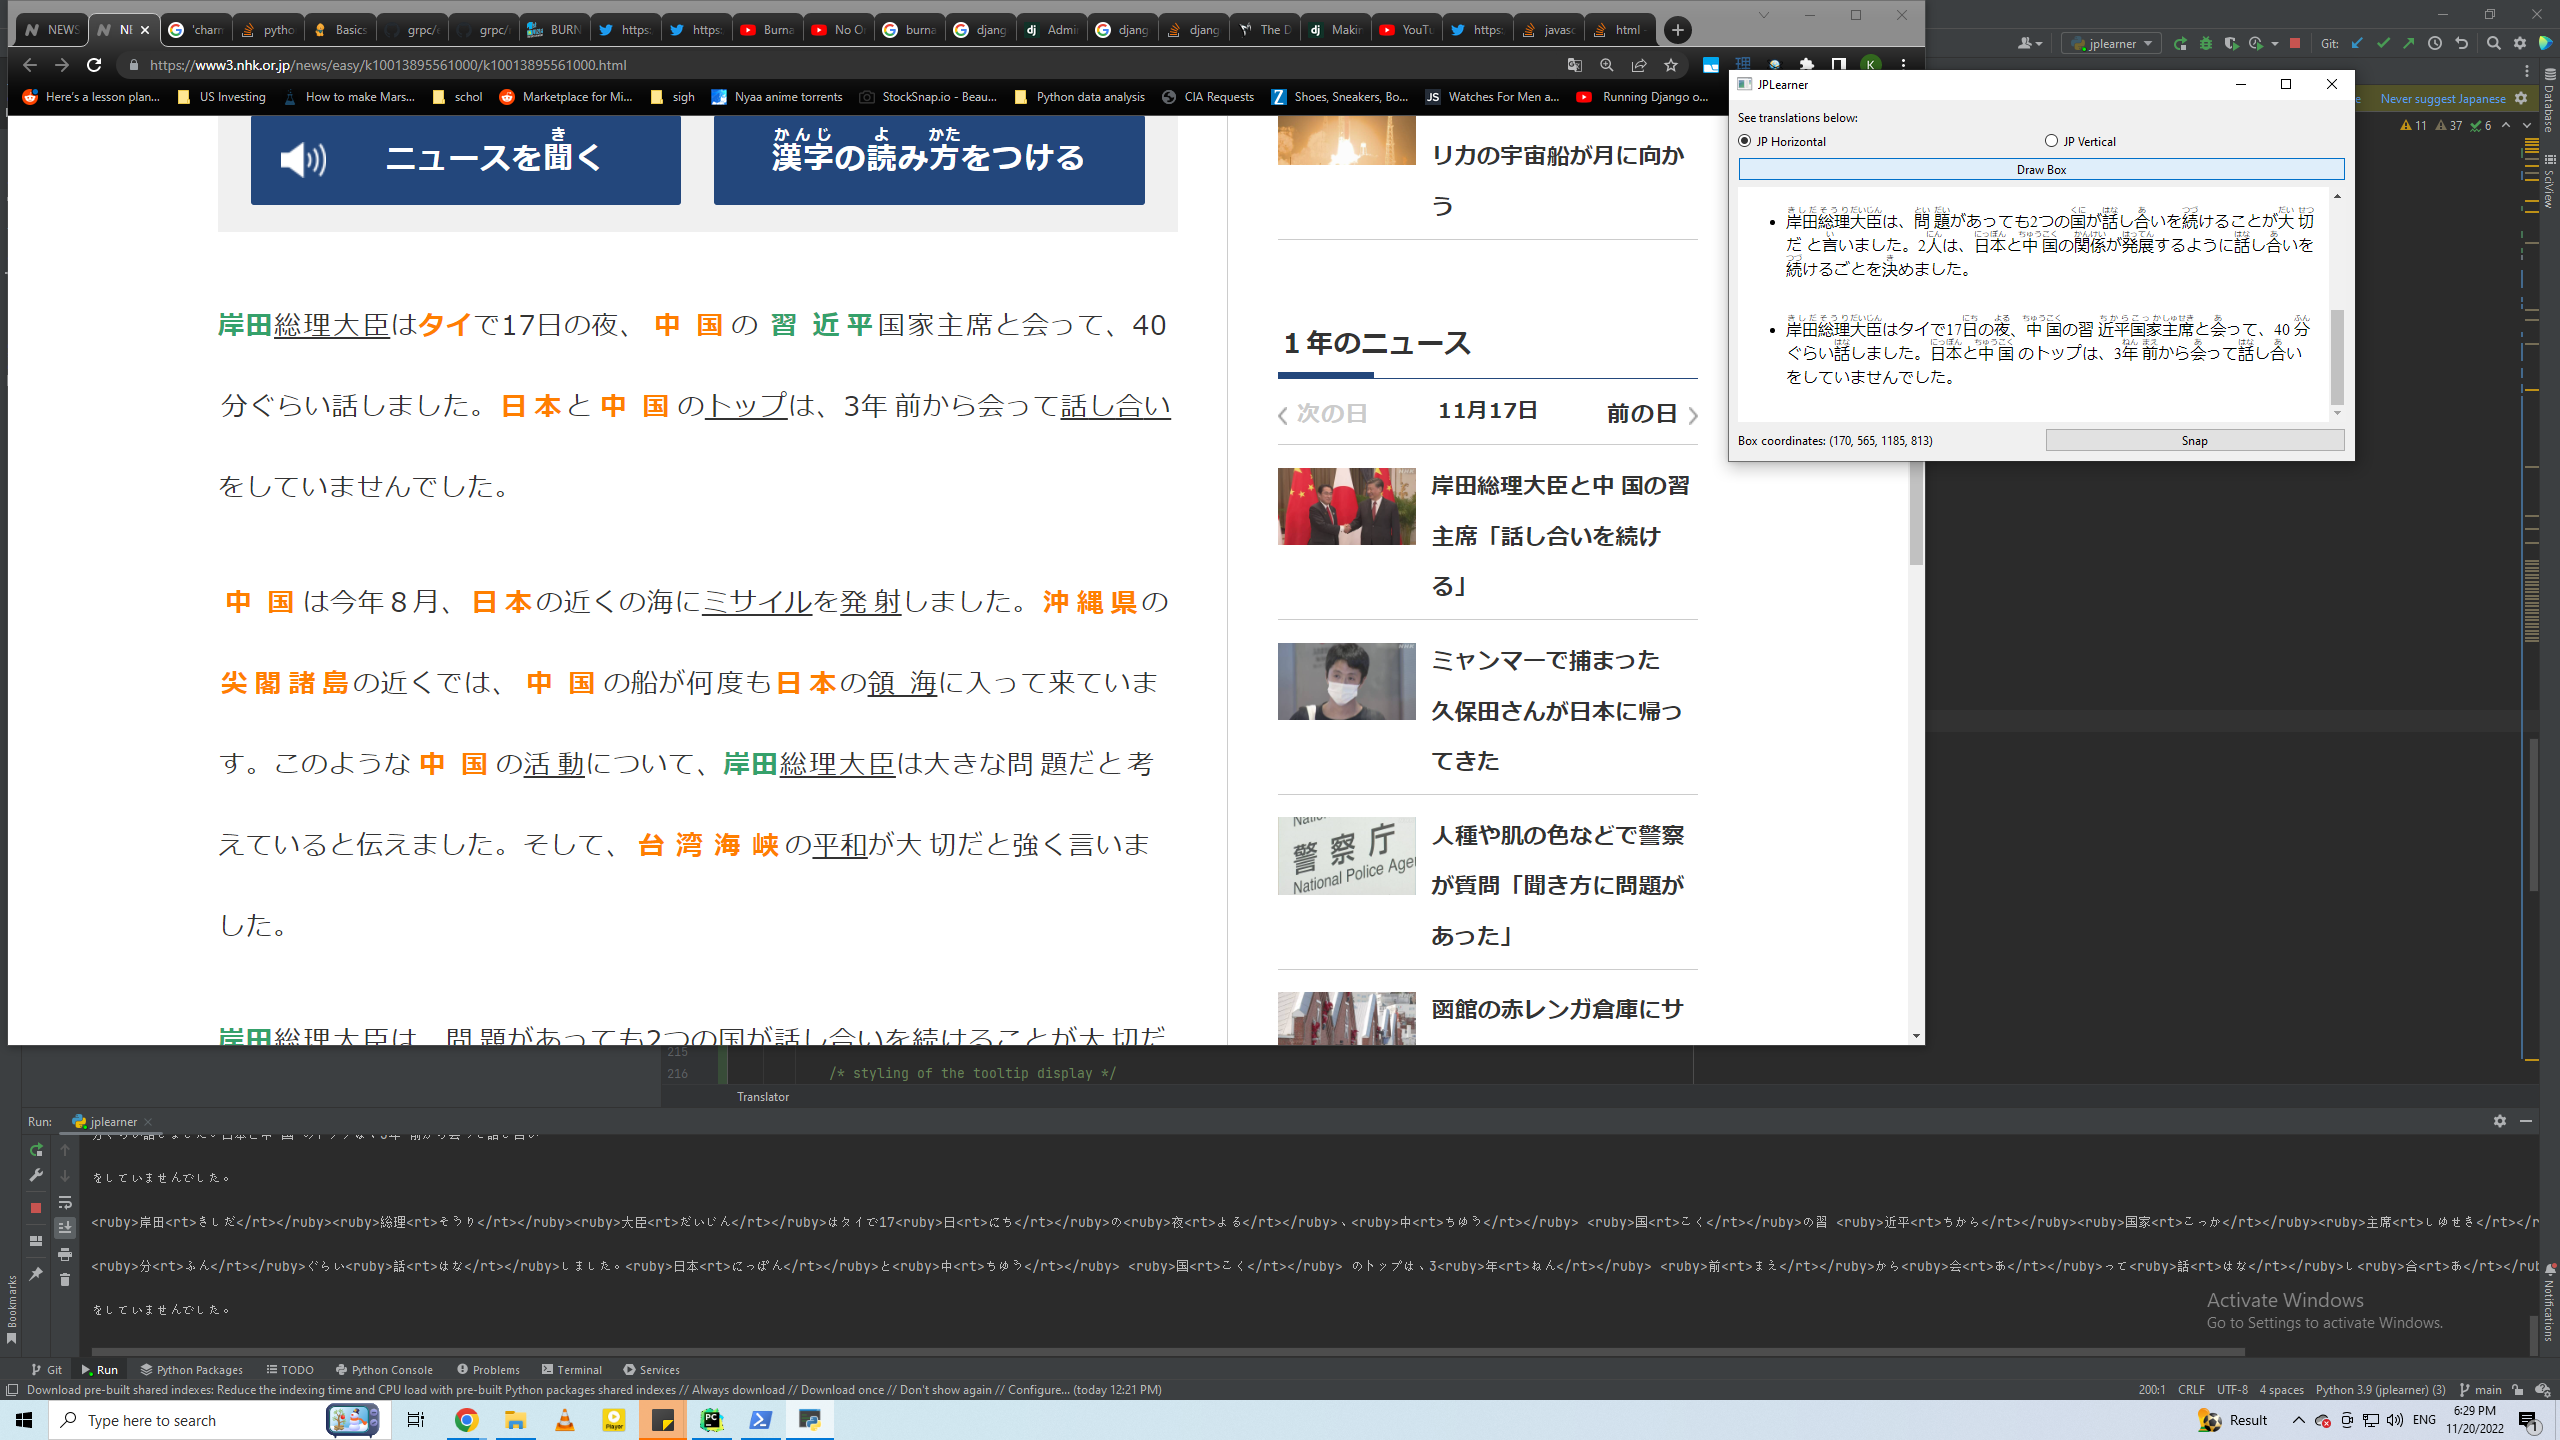
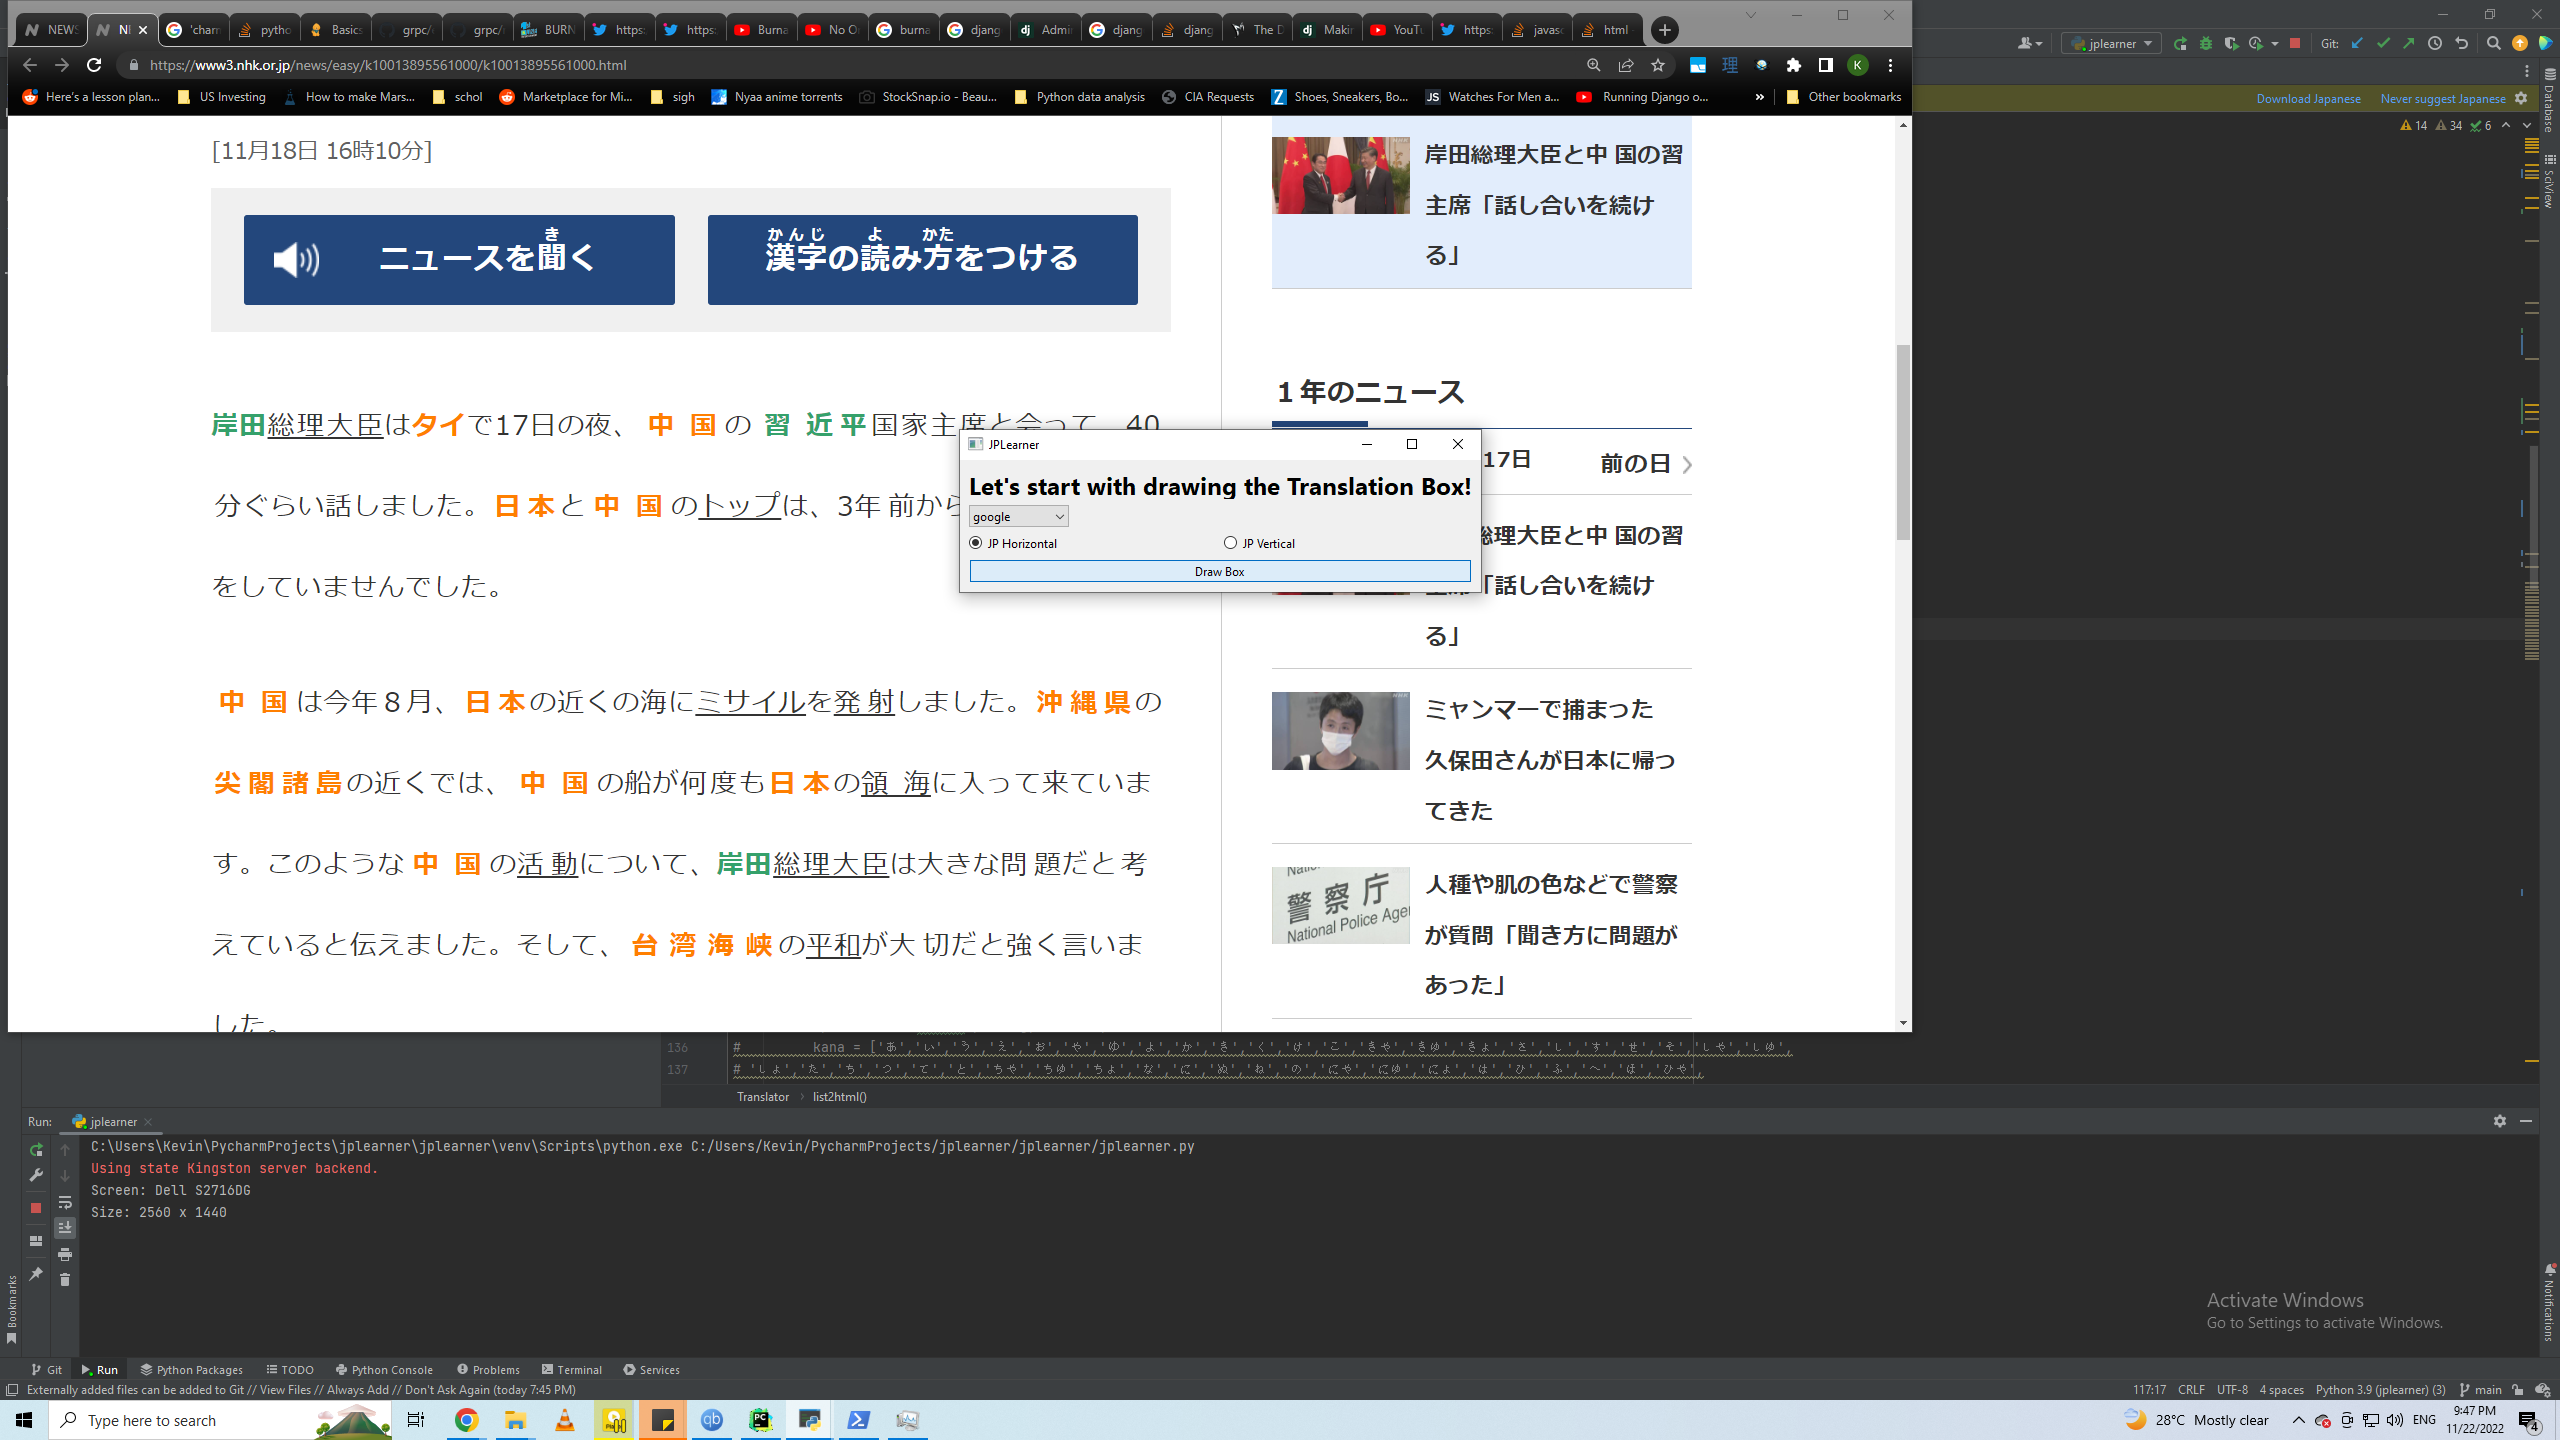
Added support for translators using: https://github.com/uliontse/translators Added some preprocessing will see how testing goes.. Added two utils Also pip installed the correct furigana fork so that should be good now.

diff --git a/translator.py b/translator.py
@@ -8,8 +8,8 @@ from jamdict import Jamdict
 
 import imagehash
 import pytesseract
-import translators as ts
-from furigana_fork.furigana.furigana import print_html, return_html
+import translators
+from furigana.furigana import print_html, return_html
 from PIL import Image, ImageGrab
 from PyQt6 import QtCore, QtWebEngineWidgets
 from PyQt6.QtWidgets import (
@@ -20,6 +20,7 @@ from PyQt6.QtWidgets import (
     QVBoxLayout,
     QSizePolicy,
     QWidget,
+    QMessageBox,
 )
 
 import utils
@@ -55,8 +56,15 @@ class Translator:
         layout1.addLayout(lower_Hbox)
         self.layout.addLayout(layout1)
         self.init_html()
+        self._init_translators()
 
-    def translate(self):
+    def _init_translators(self):
+        tl_list = self.main_window.tls_list
+        self.tl_dct = {tl_list[i]: str('translators.'+tl_list[i]) for i in range(len(tl_list))}
+        print(self.tl_dct)
+        print(utils.my_import(self.tl_dct['google'])('話し合い', to_language='en'))
+
+    def run(self):
         self.text = []
         save_path = utils.get_snippet(
             TRANSLATION_PICS_SAVE_LOCATION,
@@ -69,8 +77,17 @@ class Translator:
         elif self.main_window.jpv.isChecked():
             lang = 'jpn_vert'
         try:
+            img = Image.open(save_path)
+            length_x, width_y = img.size
+            factor = min(1, float(1024.0 / length_x))
+            size = int(factor * length_x), int(factor * width_y)
+            img = img.resize(size, Image.Resampling.LANCZOS)
+            thresh = 200
+            fn = lambda x: 255 if x > thresh else 0
+            img = img.convert('L').point(fn, mode='1')
+            img.save(save_path)
             ocr_output = pytesseract.image_to_string(
-                Image.open(save_path), lang=lang, timeout=1
+                Image.open(save_path), lang=lang, timeout=30
             )
             print(ocr_output)
             furigana_conversion = return_html(ocr_output)
@@ -86,17 +103,15 @@ class Translator:
             self.view.reload()
             # self.view.setHtml(html)
         except Exception as e:
-            print(e)
-            raise
+            utils.qt_alert(f"Error: {e}")
+            return
 
     def list2html(self, elements, raw_text):
         try:
-            translation = self.deepl_translate(raw_text)
-        except:
-            try:
-                translation = self.google_translate(raw_text)
-            except Exception as e:
-                translation = str(e)
+            translation = self.translate(raw_text)
+        except Exception as e:
+            utils.qt_alert(f"Translator FAILED...please select a different one. \nError: {e}")
+            return
         return (
             f"<div class ='tooltip-container'>\n"
             f"<p class = 'tooltip-text'> {translation}</p>\n"
@@ -106,12 +121,9 @@ class Translator:
               "</div>\n"
         )
 
-    def deepl_translate(self, raw_text):
-        translated_text = ts.deepl(raw_text, to_language='en')
-        return translated_text
-
-    def google_translate(self, raw_text):
-        translated_text = ts.google(raw_text, to_language='en')
+    def translate(self, raw_text):
+        tl_Selection = self.main_window.tl_combobox.currentText()
+        translated_text = utils.my_import(self.tl_dct[tl_Selection])(raw_text, to_language='en')
         return translated_text
 
     def create_js(self, jp_text):
@@ -212,7 +224,9 @@ document.getElementById('scroll').scrollIntoView();
                 display: flex;
                 place-content: center;
             }
-
+            .tooltip-container:nth-child(odd) {
+                background-color: lightgrey;
+            }
             /* styling of the tooltip display */
             .tooltip-text {
                 display: none;

diff --git a/jplearner.py b/jplearner.py
@@ -17,11 +17,13 @@ from PyQt6.QtWidgets import (
     QToolBar,
     QVBoxLayout,
     QWidget,
-    QSizePolicy,
+    QComboBox,
+    QMessageBox,
 )
 
 import constants
 import translator
+import translators as tss
 import utils
 
 
@@ -60,6 +62,10 @@ class DrawTranslationBox(QWidget):
     def mouseReleaseEvent(self, event):
         self.end = event.pos()
 
+    def closeEvent(self, a0: QtGui.QCloseEvent):
+        # Might need to use this to handle if user closes window before saving or anything.
+        pass
+
 
 class MainWindow(QMainWindow):
     def __init__(self, screen_size):
@@ -73,6 +79,15 @@ class MainWindow(QMainWindow):
             "<h1>Let's start with drawing the Translation Box!</h1>"
         )
         self.layout.addWidget(self.instructions)
+
+        # Translators Dropdown
+        self.tls_list = tss.translators_pool
+        self.tl_combobox = QComboBox()
+        self.tl_combobox.setPlaceholderText('Translators')
+        self.tl_combobox.setMaximumHeight(30)
+        self.tl_combobox.setMaximumWidth(100)
+        [self.tl_combobox.addItem(tl) for tl in self.tls_list]
+        self.layout.addWidget(self.tl_combobox)
 
         # Radio buttons
         self.radio_layout = QHBoxLayout()
@@ -113,6 +128,9 @@ class MainWindow(QMainWindow):
         pass
 
     def _draw_box_clicked(self):
+        if self.tl_combobox.currentText() == '':
+            utils.qt_alert("You must select a translator...")
+            return
         self._init()
         self.instructions.setText(
             "Use your mouse on the screen to click and drag a box around the translation area"
@@ -155,7 +173,7 @@ class MainWindow(QMainWindow):
 
     def _tl_snap_button(self):
         self.tl.coordinates = self.coordinates
-        self.tl.translate()
+        self.tl.run()
 
 
 def main():

diff --git a/utils.py b/utils.py
@@ -1,6 +1,7 @@
 import os
 
 from PIL import Image, ImageGrab
+from PyQt6.QtWidgets import QMessageBox
 
 
 def get_snippet(location, filename, coordinates=None):
@@ -15,3 +16,17 @@ def get_snippet(location, filename, coordinates=None):
     )
     snapshot.save(save_path)
     return save_path
+
+
+def my_import(name):
+    components = name.split('.')
+    mod = __import__(components[0])
+    for comp in components[1:]:
+        mod = getattr(mod, comp)
+    return mod
+
+
+def qt_alert(msg):
+    msg_box = QMessageBox()
+    msg_box.setText(msg)
+    msg_box.exec()

diff --git a/README.md b/README.md
@@ -1,7 +1,9 @@
 # jplearner
  
 Draw outline of where you want translations to occur. Then when u click the "Snap" button it auto converts
-japanese kanji to kanji plus furigana in brackets. eg: 会(かい)社(しゃ)
+japanese kanji to kanji plus furigana in brackets. eg: 
+![img.png](img.png)
+Also you can select from a slew of translators to use the Hover for translation now.
 
 Made in 3 days far from perfect.
 
@@ -14,13 +16,20 @@ TO DOs:
 4. Add radio button for vertical japanese as that shouldnt be hard to add with tessaract.
    1. See above.
 5. Can tesseract OCR accuracy be improved?
+   1. Added a few lines (greyscale - black and white, resize). Doing some testing..
+   2. Maybe threshold is useful as like a dial on the window? Maybe.
 6. Maybe add Anki support..
 7. Furigana in brackets ain't so visually pleasing should find better way maybe hover but PYQT is a lil tough for that..
    1. Fixed furigana now in web engine superscripted
 8. Fix the many flaws due to my 3 days old knowledge of pyqt and desktop guis. Plus other fixes to poor setup.
+9. Furigana in images messes with OCR quite badly at times.. logic to remove furigan from img seems difficult. 
+10. Main window janky when resized.
 
 ## Install
 Requirements.txt is there
+Download and install Dependencies
+run pip install for requirements 
+Give it a whirl!
 
 ##### Dependecies
 
